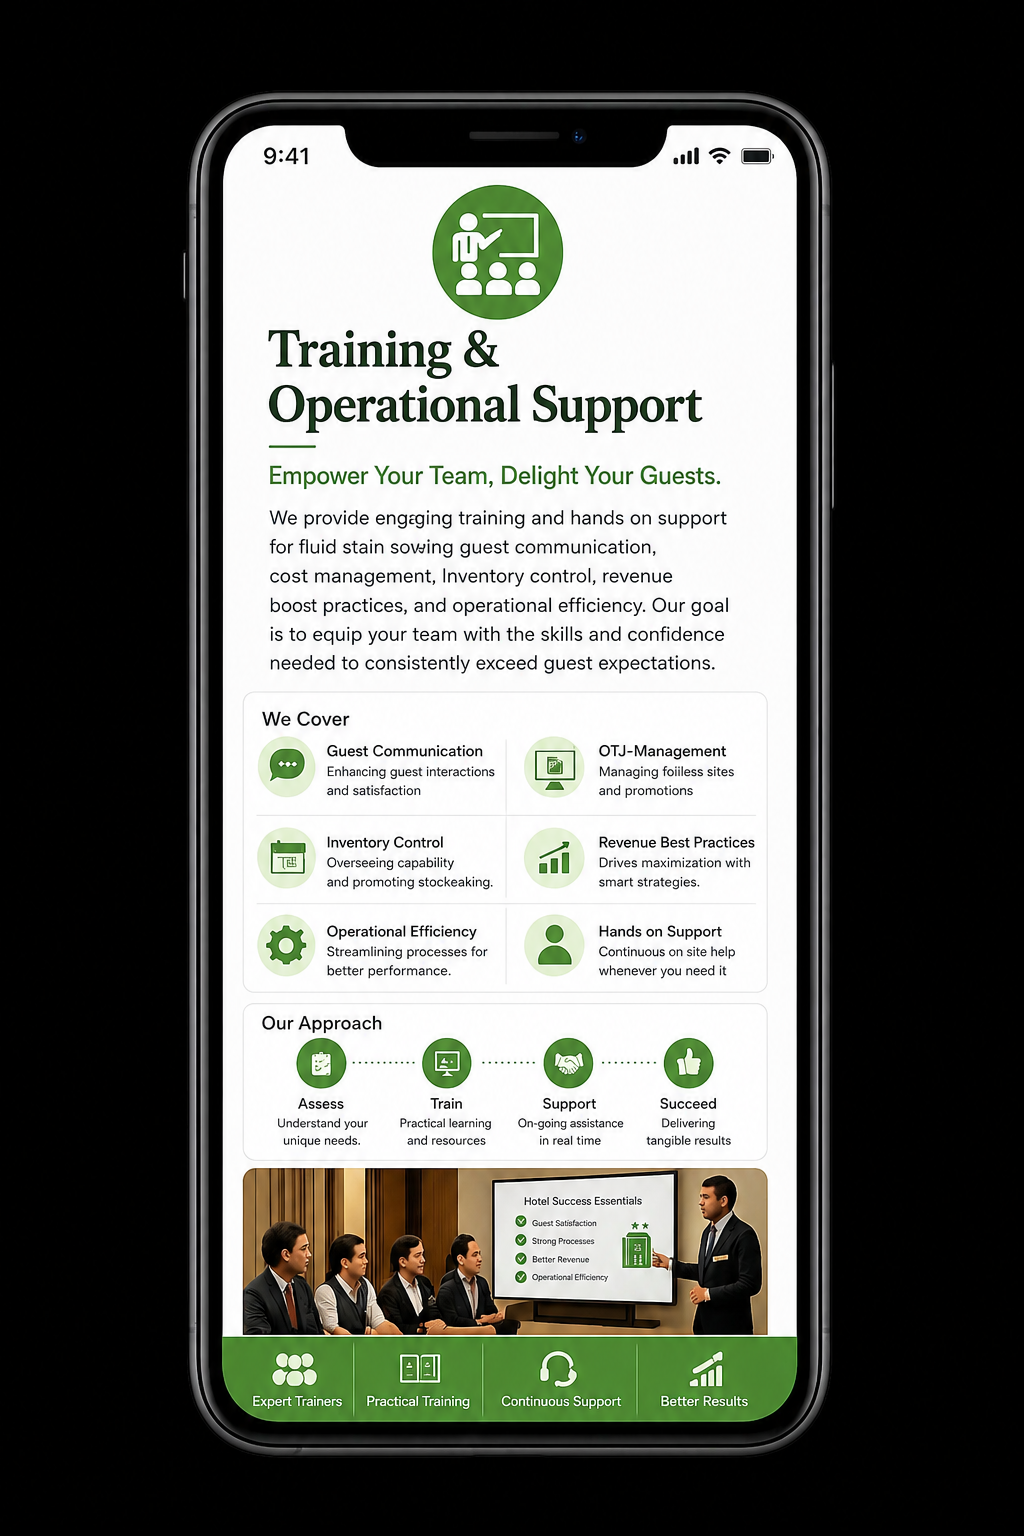
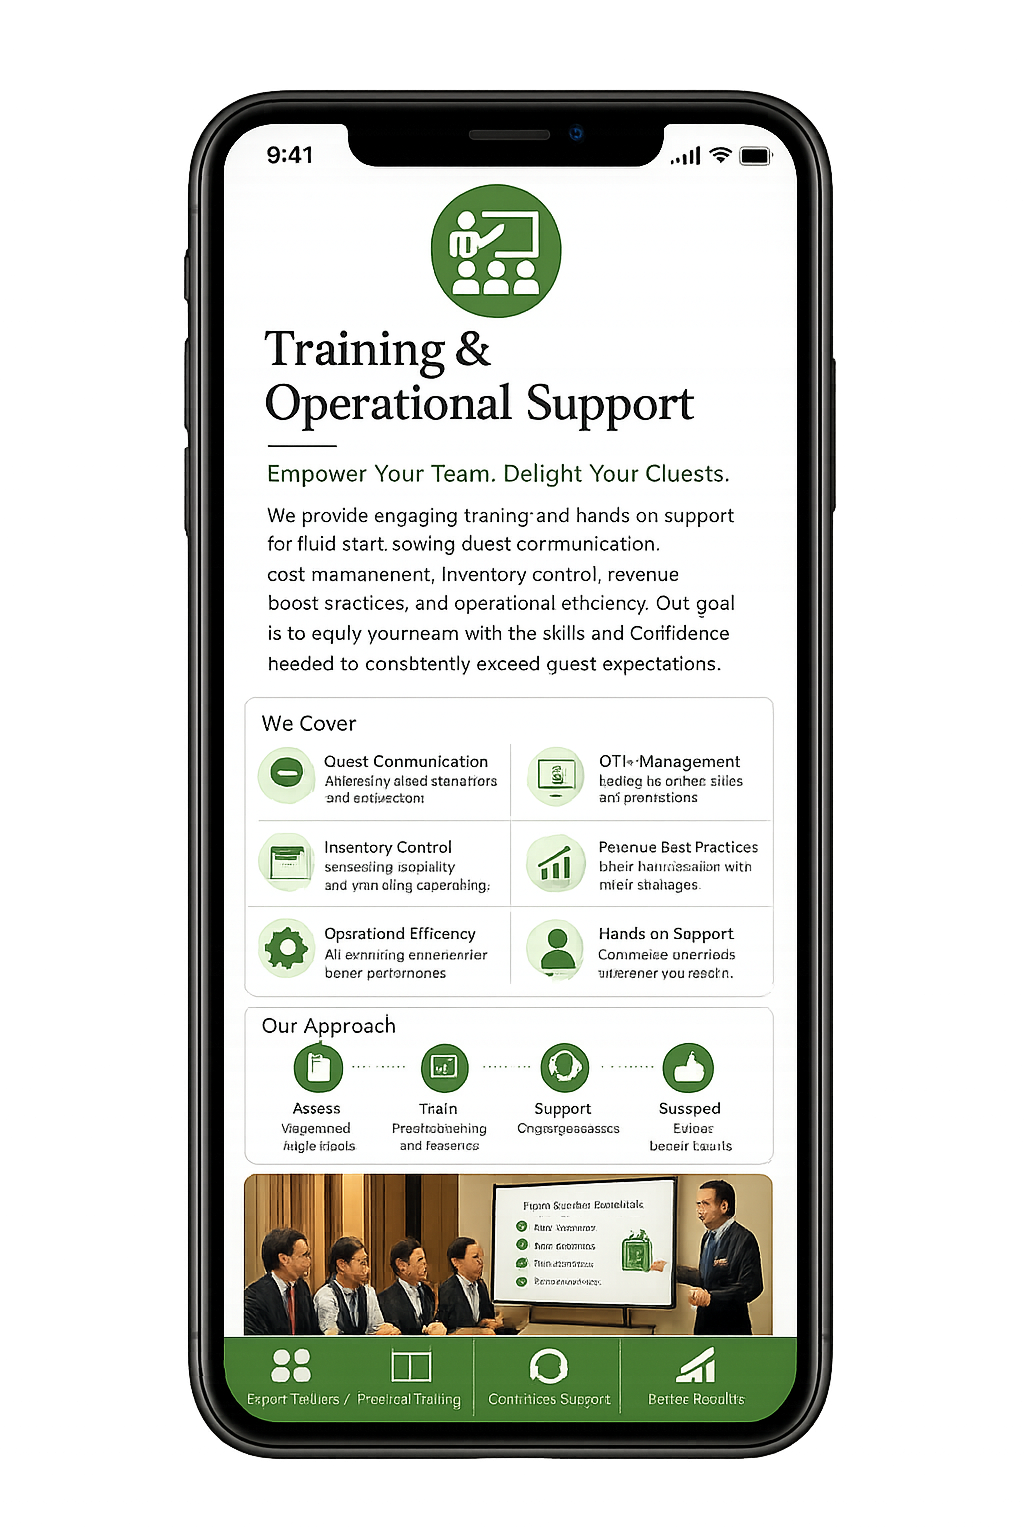
update 11

diff --git a/src/components/layout/Footer.tsx b/src/components/layout/Footer.tsx
@@ -6,10 +6,6 @@ import { ease } from '@/lib/utils'
 const services = [
   { label: 'Revenue Management', href: '/revenue' },
   { label: 'Hotel Onboarding', href: '/onboarding' },
-  { label: 'Dynamic Pricing', href: '/revenue' },
-  { label: 'OTA Distribution', href: '/onboarding' },
-  { label: 'Market Intelligence', href: '/revenue' },
-  { label: 'Channel Management', href: '/onboarding' },
 ]
 
 const company = [
@@ -115,7 +111,7 @@ export function Footer() {
         {/* Bottom bar */}
         <div className="flex flex-col md:flex-row items-center justify-between gap-4">
           <p className="text-ghost text-xs font-sans">
-            © 2025 ProfitPro. All rights reserved. · Turn Potential Into Profit.
+            © 2026 ProfitPro. All rights reserved. · Turn Potential Into Profit.
           </p>
           <div className="flex items-center gap-5">
             <span className="text-ghost text-xs font-sans">Privacy Policy</span>

diff --git a/src/components/sections/HomeCTA.tsx b/src/components/sections/HomeCTA.tsx
@@ -64,7 +64,7 @@ export function HomeCTA() {
 
               {/* Trust signals */}
               <div className="flex flex-wrap gap-x-6 gap-y-2 mt-10 pt-8 border-t border-zinc-800">
-                {['500+ hotels onboarded', '₹180Cr+ revenue managed', '98% client retention'].map((t) => (
+                {['100+ hotels onboarded', '₹40Lakhs+ revenue managed', '99.9% client retention'].map((t) => (
                   <div key={t} className="flex items-center gap-2">
                     <div className="w-1 h-1 rounded-full bg-[#66B159]" />
                     <span className="text-ghost text-xs font-sans">{t}</span>

diff --git a/src/components/layout/Nav.tsx b/src/components/layout/Nav.tsx
@@ -12,6 +12,7 @@ const links = [
   { label: 'Hotel Onboarding', href: '/onboarding' },
   { label: 'Testimonials', href: '/#testimonials' },
   { label: 'Contact', href: '/contact' },
+  { label: 'About Us', href: '/about' },
 ]
 
 export function Nav() {